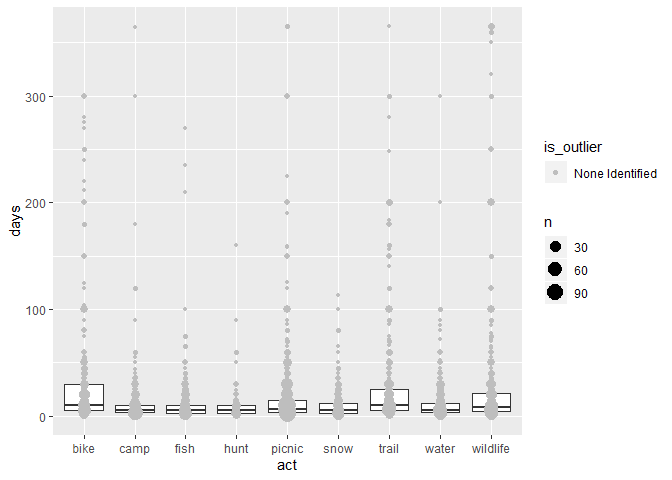
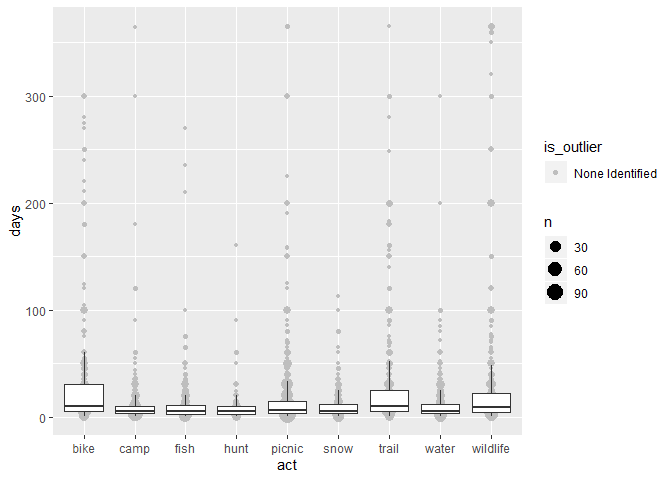
ensuring apply_log in outlier functions removes zeroes appropriately

diff --git a/github-vignettes/outliers.md b/github-vignettes/outliers.md
@@ -34,10 +34,10 @@ We can use `sastats::outlier_plot()` which is a wrapper for
 `ggplot2::geom_boxplot()`. However, the distributions are highly skewed
 and difficult to view. Additionally, the postion of the whiskers
 suggests that we would be flagging many reasonable values as outliers
-(e.g., those above 50 or so for biking).
+(e.g., those above 20 or so for fishing).
 
 ``` r
-outlier_plot(activities, days, act)
+outlier_plot(activities, days, act, ignore_zero = TRUE)
 ```
 
 ![](outliers_files/figure-gfm/unnamed-chunk-4-1.png)<!-- -->
@@ -53,3 +53,48 @@ outlier_plot(activities, days, act, apply_log = TRUE)
 ![](outliers_files/figure-gfm/unnamed-chunk-5-1.png)<!-- -->
 
 ## Flag Outliers
+
+We can use `outlier_tukey()` to flag those values observed to be
+outliers:
+
+``` r
+activities <- activities %>%
+    group_by(act) %>% 
+    mutate(
+        is_outlier = outlier_tukey(days, apply_log = TRUE), 
+        days_cleaned = ifelse(is_outlier, NA, days) 
+    ) %>% 
+    ungroup()
+
+outlier_plot(activities, days, act, apply_log = TRUE, show_outliers = TRUE)
+```
+
+![](outliers_files/figure-gfm/unnamed-chunk-6-1.png)<!-- -->
+
+We have a couple more summary functions to show the effects of outliers
+removal:
+
+``` r
+outlier_pct(activities, act)
+#> # A tibble: 9 x 4
+#> # Groups:   act [9]
+#>   act      is_outlier     n pct_outliers
+#>   <chr>    <lgl>      <int>        <dbl>
+#> 1 bike     TRUE           4        0.319
+#> 2 camp     TRUE           8        0.639
+#> 3 fish     TRUE           9        0.719
+#> 4 hunt     TRUE           3        0.240
+#> 5 picnic   TRUE          26        2.08 
+#> 6 snow     TRUE           4        0.319
+#> 7 trail    TRUE           7        0.559
+#> 8 water    TRUE           9        0.719
+#> 9 wildlife TRUE          24        1.92
+
+outlier_mean_compare(activities, days, days_cleaned)
+#> # A tibble: 1 x 2
+#>    days days_cleaned
+#>   <dbl>        <dbl>
+#> 1  19.1         15.8
+```
+
+### Topcode
